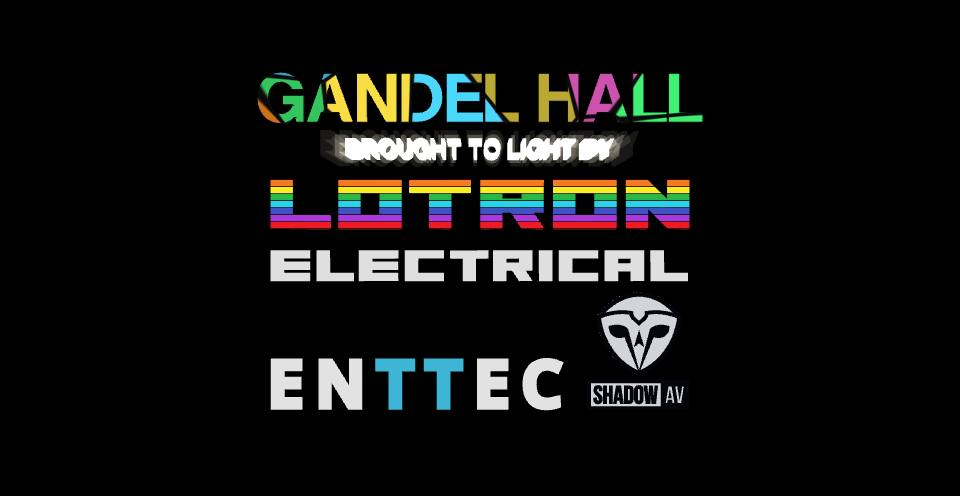
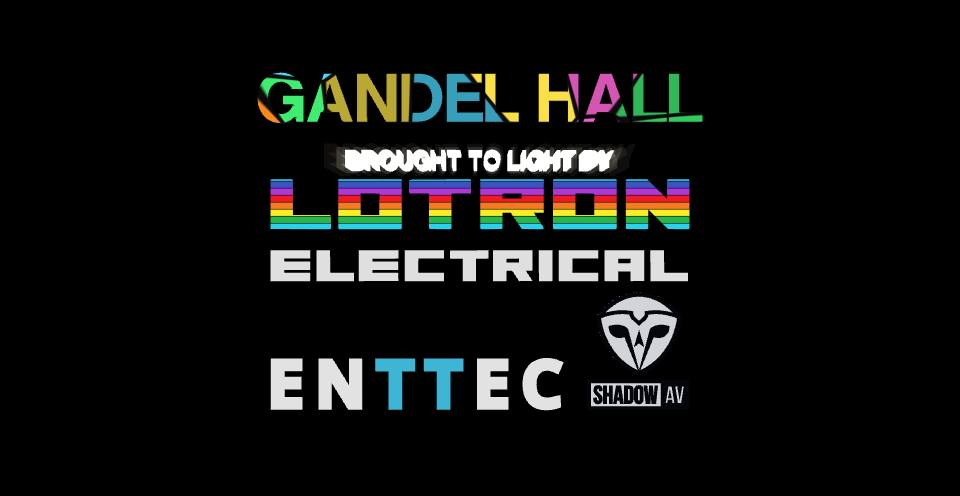
Finale (Lloyd's note, V9): the camera goes right up into the groom's back until his jacket is the whole frame, and only then fades to black; the pan carries half a second of pure black before the marks come down, and the look holds on the triangle's place so they enter from outside the frame; BROUGH
Claude-Session: https://claude.ai/code/session_01TvFyJ7jgaVEcvXM9wy2J9o

Changed region(s): [[0.25, 0.1512, 0.75, 0.4839]]

diff --git a/index.html b/index.html
@@ -1761,7 +1761,8 @@ function buildCourt(){
   tg.computeBoundingBox(); const b=tg.boundingBox; tg.translate(-(b.min.x+b.max.x)/2, -(b.min.y+b.max.y)/2, -depth*0.2); tg.computeVertexNormals();
   const core=new THREE.Mesh(tg,new THREE.MeshBasicMaterial({color:0xffffff,toneMapped:false}));
   const halo=new THREE.Mesh(tg,new THREE.MeshBasicMaterial({color:0xfff6dc,transparent:true,opacity:0.22,blending:THREE.AdditiveBlending,depthWrite:false,toneMapped:false}));
-  halo.scale.set(1.06,1.18,1.6); const halo2=halo.clone(); halo2.scale.set(1.14,1.4,2.4); halo2.material=halo.material.clone(); halo2.material.opacity=0.1;
+  // (Lloyd, finale V9) the glow a touch softer: it read too bright against the black
+  halo.material.opacity=0.13; halo.scale.set(1.05,1.15,1.5); const halo2=halo.clone(); halo2.scale.set(1.12,1.32,2.2); halo2.material=halo.material.clone(); halo2.material.opacity=0.06;
   // in the court group, not the logo group: it faces the glass and does not turn with the letters (Lloyd)
   tag=new THREE.Group(); tag.add(core,halo,halo2); tag.position.copy(turntable.position).y+=tagY; tag.quaternion.copy(turntable.quaternion); tag.userData.baseY=tag.position.y; tag.userData.size=tagSize; court.add(tag); };
  // Lotron at the front of the turntable, facing the hall at the start of every turn
@@ -3482,7 +3483,7 @@ function buildDoor(){ if(doorLeaf){ scene.remove(doorLeaf); doorLeaf=null; }
 // Lotron on top, ENTTEC bottom left, Shadow AV bottom right, BROUGHT TO LIGHT BY above them; the
 // triangle flattens from 3D to 2D, GANDEL HALL 2026 comes up beneath it in shimmering rainbow,
 // holds, and the picture fades to black. The tour ends there.
-const FIN={walk:6.5, pan:1, drop:6, flat:5, hold:4, fade:2};   // seconds per phase
+const FIN={walk:6.5, pan:1.5, drop:6, flat:5, hold:4, fade:2};   // seconds per phase; the pan's last 0.5 s is pure black (Lloyd, V9)
 // (Lloyd, V5) the walk ends on the groom's back filling the frame, then black; the marks come
 // down from the top of the frame onto the black, so nothing outside is ever seen
 // (Lloyd, V2) the last scene is the marks alone on black: as the flattening begins the court,
@@ -3553,7 +3554,7 @@ function finaleStep(s){ if(!finale)finaleStart(); if(!finale)return; const F=fin
  // seen from the hall, -x is the left: ENTTEC there, Shadow AV on the right
  const targets=new Map([[logo,[0,L.yTop,0]],[partners[0],[-L.dx0,L.yBot,0]],[partners[1],[L.dx1,L.yBot,0]]]);
  const tP=FIN.walk, tD=tP+FIN.pan, tF=tD+FIN.drop;
- const pk=smooth(Math.max(0,Math.min(1,(s-tP)/FIN.pan)));   // the pan up: the marks lift away and take their places above
+ const pk=smooth(Math.max(0,Math.min(1,(s-tP)/(FIN.pan-0.5))));   // the pan up: the marks lift away and take their places above, done 0.5 s before the drop
  const dk=smooth(Math.max(0,Math.min(1,(s-tD)/FIN.drop)));  // the drop: down from the top of the frame into the triangle
  // the eye stays a metre outside the glass at least; where the triangle would not fit from there
  // (a phone's narrow picture) the whole sculpture shrinks instead
@@ -3581,29 +3582,35 @@ function finaleStep(s){ if(!finale)finaleStart(); if(!finale)return; const F=fin
  const dip=0; if(court)court.visible=s>=tP; finaleLights(s>=tP);
  // the fade to black at the end
  const fd=Math.max(0,Math.min(1,(s-tF-FIN.flat-FIN.hold)/FIN.fade));
- // black: into the groom's back at 5 s, held through the lift, clearing as the marks start down
- const bo=s<tD?smooth(Math.max(0,Math.min(1,(s-5.0)/0.8))):1-smooth(Math.min(1,(s-tD)/0.8));
+ // black: the groom's back fills the frame by 5.9 s and the fade to black follows it (Lloyd, V9);
+ // held through the lift; clears in the pan's last half second, on a scene that is pure black
+ // with the marks above the frame, so they enter from outside it
+ const bo=s<tD-0.5?smooth(Math.max(0,Math.min(1,(s-6.0)/0.5))):1-smooth(Math.min(1,(s-tD+0.5)/0.5));
  F.f.style.opacity=Math.max(fd,bo,1-Math.min(1,s/1.2));
  // THE CAMERA. The walk: 1.3 m behind the couple at their shoulders, through the door on their
  // backs; from 2 m outside it stops and turns to the sculpture as they walk out of the picture
  const cz=COURT.logoZ-D, c=courtPoint(COURT.uMid,y0+L.top*0.5*sf,cz), sc=courtPoint(COURT.uMid,y0+3,COURT.logoZ);
  let at,look;
  if(s<tP){ // behind the couple, then closing onto the groom's back until it fills the frame
-  const ss=Math.min(s,5.4), m=along(ss), g=along(Math.max(0,ss-0.45)), ck=smooth(Math.max(0,Math.min(1,(ss-3.6)/1.5)));
+  const ss=Math.min(s,6.4), m=along(ss), g=along(Math.max(0,ss-0.45)), ck=smooth(Math.max(0,Math.min(1,(ss-3.6)/1.5)));
   const across=new THREE.Vector3(-N.z,0,N.x);
   at=P(m.back+1.0,m.side,y0+1.5).lerp(P(g.back+0.32,g.side,y0+1.25).addScaledVector(across,0.28),ck);
-  const m2=along(ss+1.6); look=P(m2.back,m2.side,y0+1.35).lerp(P(g.back-0.3,g.side,y0+1.15).addScaledVector(across,0.28),ck); }
+  const m2=along(ss+1.6); look=P(m2.back,m2.side,y0+1.35).lerp(P(g.back-0.3,g.side,y0+1.15).addScaledVector(across,0.28),ck);
+  // (Lloyd, V9) then right up into his back, level, until his jacket is the whole frame: the
+  // picture is black before the fade is
+  const ck2=smooth(Math.max(0,Math.min(1,(ss-5.0)/0.9)));
+  at.lerp(P(g.back+0.2,g.side,y0+1.1).addScaledVector(across,0.34),ck2); look.lerp(P(g.back-0.5,g.side,y0+1.1).addScaledVector(across,0.34),ck2); }
  else { at=c;
-  // from above: the look starts high and settles on the triangle as the marks land
-  const hi=courtPoint(COURT.uMid,y0+L.top*0.5*sf+D*th*0.9,COURT.logoZ), mid=courtPoint(COURT.uMid,y0+L.top*0.5*sf,COURT.logoZ);
-  look=hi.lerp(mid,dk); }
+  // (Lloyd, V9) the look is on the triangle's place from the start: the marks come down into
+  // the frame from outside it, not into a look that is following them
+  look=courtPoint(COURT.uMid,y0+L.top*0.5*sf,COURT.logoZ); }
  poseAt(at,look); }
 // THE TEXT of the tour (Lloyd): every line a shot shows, by the shot's storyboard key, editable
 // in the storyboard tool, which writes storyboard/titles.json over these defaults. A '|' in a
 // line splits off the glint word, ' / ' stacks a second row under the first, and a row in *...*
 // is stained glass ('*Gandel Hall* / Is brought to |light'). finale is the year under the triangle,
 // sculpture the tag over the marks (both built once, so they take the file as it was at load).
-const TOUR_TEXT={"rainbow-columns":[["A special space / In Melbourne's heart",0,4.4],["Carefully crafted over decades",4.4,8.8],["*Gandel Hall* / Is brought to |light",8.8,13.2]],"dinner":[["A place for community / to come together",5.5,11]],"banquet":[["~Where / ~Rich history and modern tradition / ~Meet",2.5,13.5]],"party":[["A place to have fun!",2,8]],"party-celebrate":[["and celebrate amongst friends",2.3,8.5]],"standing":[["Somewhere for people to share their ideas",2,8]],"wedding-aisle":[["and to celebrate love",2,8]],"finale":[["",0,0]],"finale-top":[["GANDEL HALL",0,0]],"sculpture":[["BROUGHT TO LIGHT BY",0,0]]};
+const TOUR_TEXT={"rainbow-columns":[["A special place / In Melbourne's heart",0,4.4],["Carefully crafted over decades",4.4,8.8],["*Gandel Hall* / Is brought to |light",8.8,13.2]],"dinner":[["A place for community / to come together",5.5,11]],"banquet":[["~Where / ~Rich history and modern tradition / ~Meet",2.5,13.5]],"party":[["A place to have fun!",2,8]],"party-celebrate":[["and celebrate amongst friends",2.3,8.5]],"standing":[["Somewhere for people to share their ideas",2,8]],"wedding-aisle":[["and to celebrate love",2,8]],"finale":[["",0,0]],"finale-top":[["GANDEL HALL",0,0]],"sculpture":[["BROUGHT TO LIGHT BY",0,0]]};
 fetch('storyboard/titles.json?v='+Date.now()).then(r=>r.ok?r.json():null).then(j=>{ if(j)Object.assign(TOUR_TEXT,j); }).catch(()=>{});
 const TX=k=>(TOUR_TEXT[k]||[]).map(([t,a,b])=>[t,a,b]);
 const TX1=(k,d)=>((TOUR_TEXT[k]||[])[0]||[d])[0]||d;
